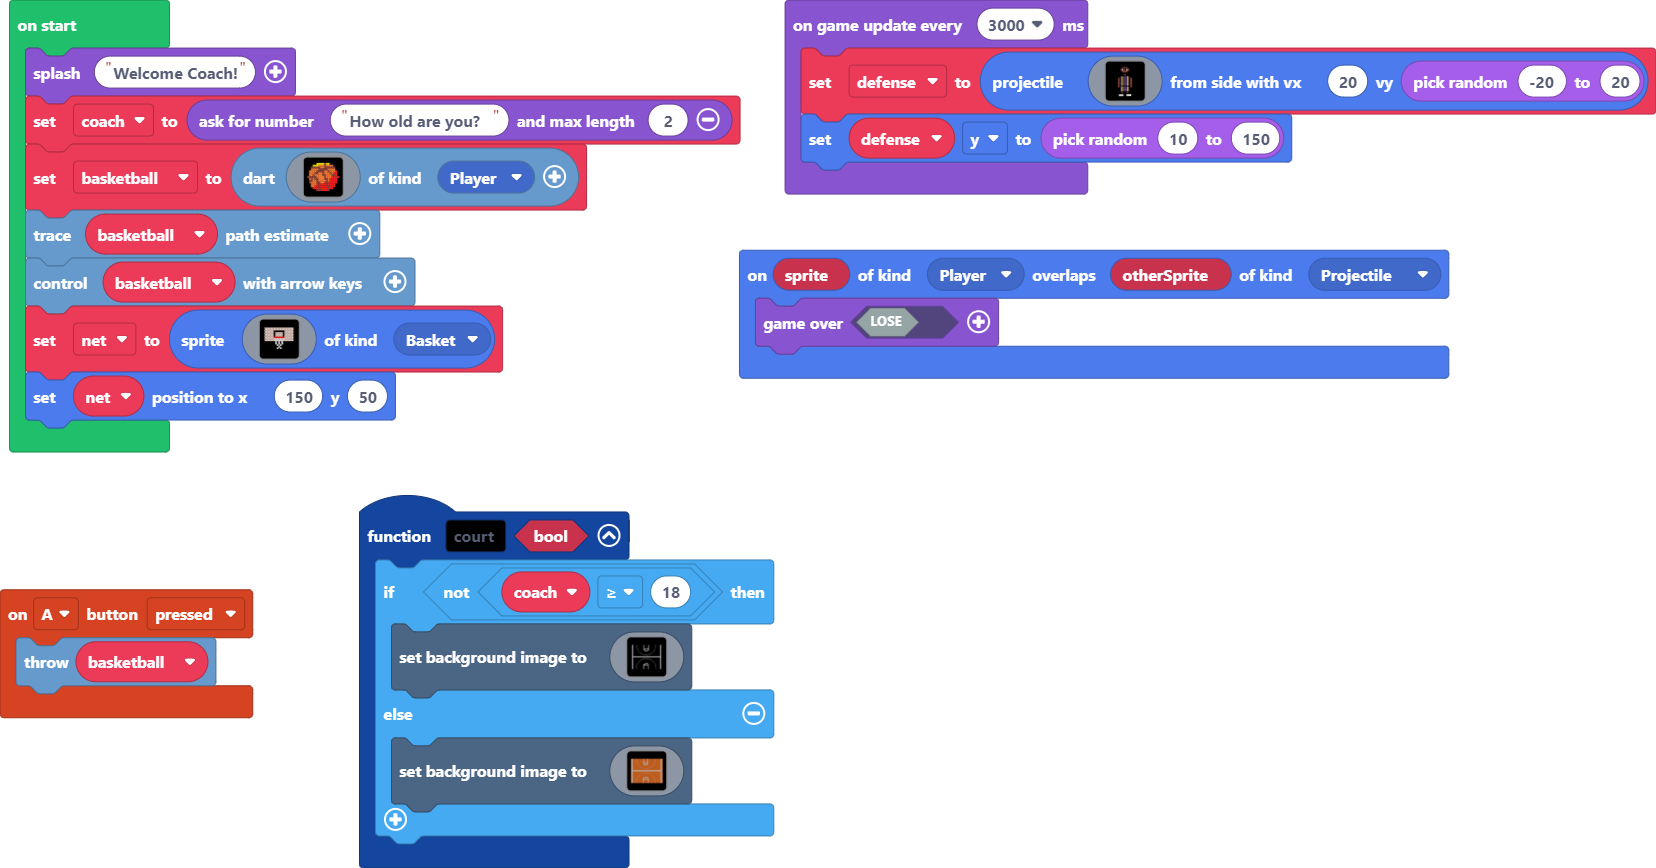
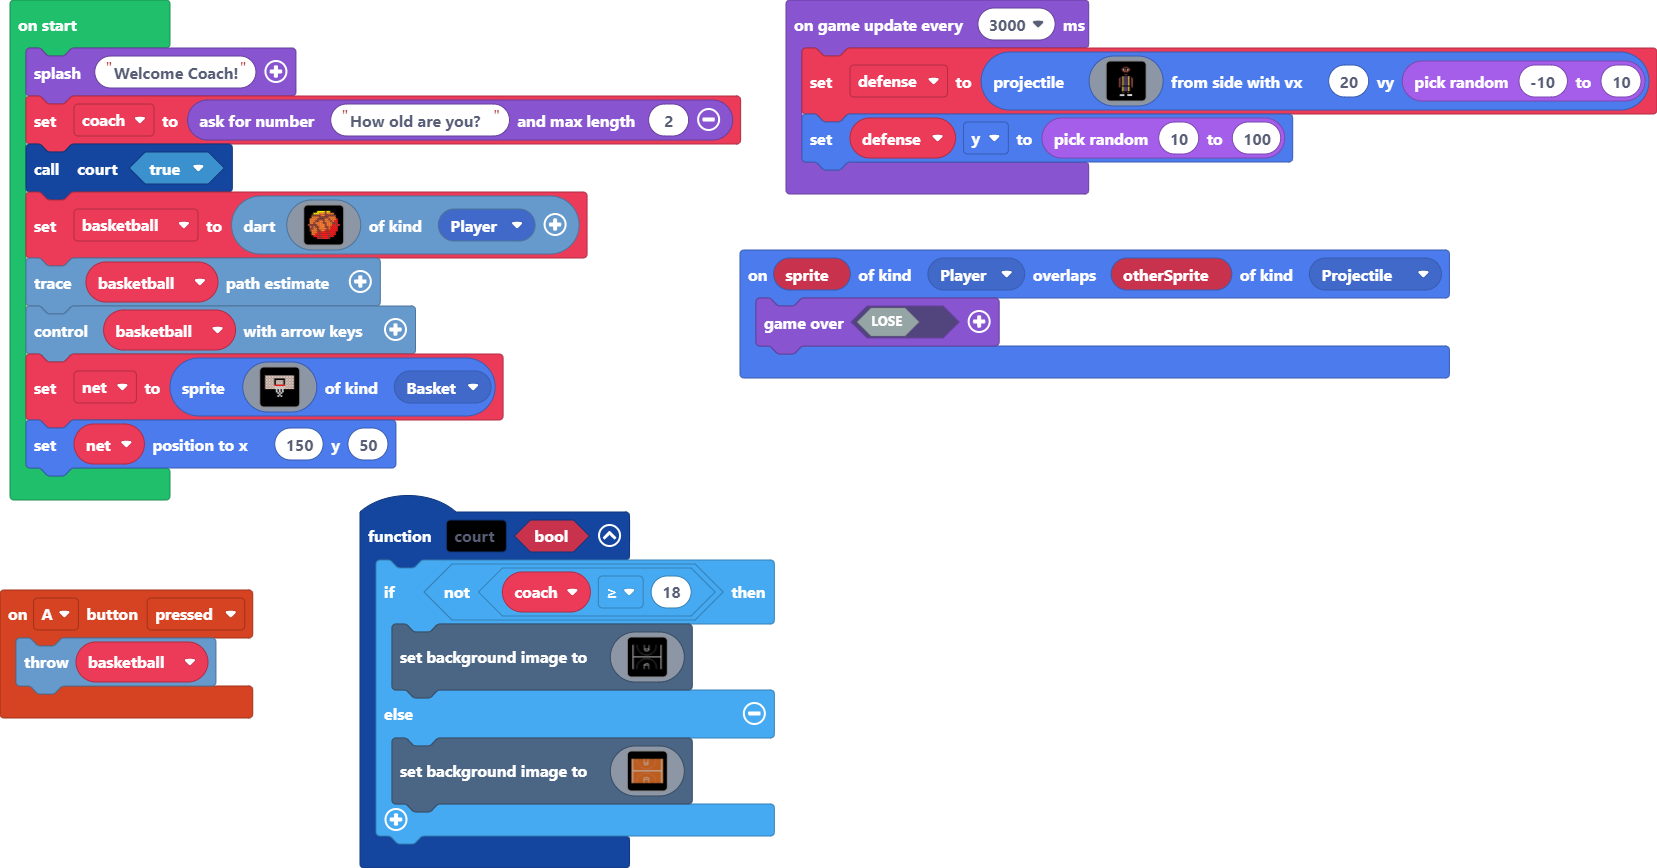
Update main.blocks, main.ts

diff --git a/main.ts b/main.ts
@@ -261,6 +261,7 @@ let basketball: Dart = null
 let coach = 0
 game.splash("Welcome Coach!")
 coach = game.askForNumber("How old are you?", 2)
+court(true)
 basketball = darts.create(img`
     . . . . . f f f f f f f . . . . . 
     . . . f f 5 5 5 5 e 5 5 f f . . . 
@@ -337,6 +338,6 @@ game.onUpdateInterval(3000, function () {
         ..f11111f.f11111f..
         ..f11111f.f11111f..
         ..fffffff.fffffff..
-        `, 20, randint(-20, 20))
-    defense.y = randint(10, 150)
+        `, 20, randint(-10, 10))
+    defense.y = randint(10, 100)
 })
